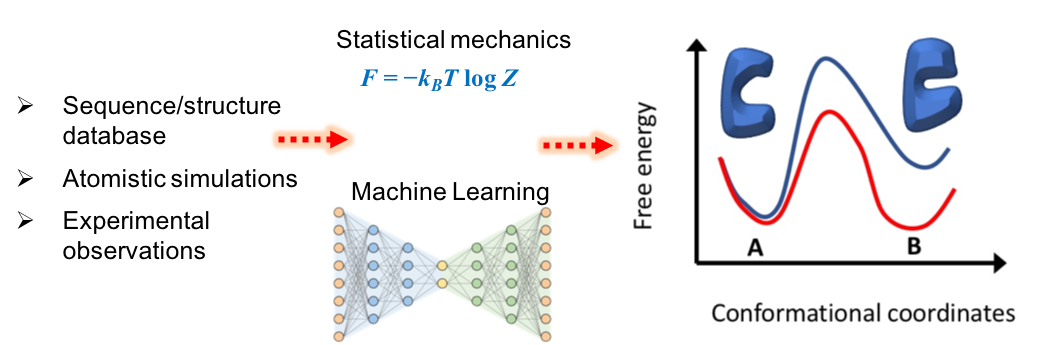
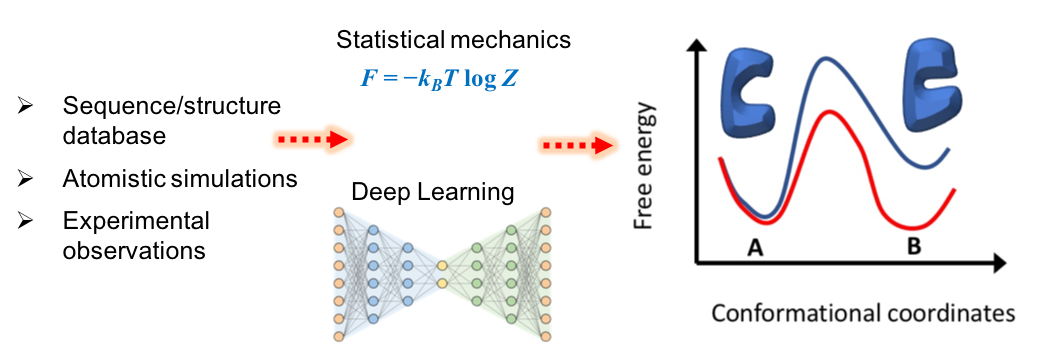
test0

Changed region(s): [[0.3368, 0.5217, 0.5512, 0.6087]]

diff --git a/content/research/_index.md b/content/research/_index.md
@@ -59,13 +59,13 @@ sections:
 
 <div style="margin-bottom: 80px;"></div>
 
-<h3 style="margin-bottom: 0px;">Applying machine learning/AI and statistical physics to reveal protein conformations and functions</h3>
+<h3 style="margin-bottom: 0px;">Applying deep learning and statistical physics to reveal protein conformations and functions</h3>
 <div style="display: flex; align-items: center;">
     <div style="margin-top: 0px;">
         {{< figure src="sm_ai_pmf.png" width="5000px" height="auto" caption="" numbered="false" >}}
     </div>
     <div style="margin-left: 20px;">
-        <p style="margin-top: 0px; text-align: justify;"> Remarkable advances in life science now permit in-silico exploration of a vast range of length scales from single-protein systems to cell-scale organization. We are interested to apply statistical physics and machine learning/AI to extend the timescales that conventional methods can simulate. Previously, we employed rare-event sampling techniques to search for the most probable transition pathways for molecular motor actions (<a href="https://pubs.acs.org/doi/abs/10.1021/ja512605w">JACS 2015</a>, <a href="https://elifesciences.org/articles/34186">eLife 2018</a>).
+        <p style="margin-top: 0px; text-align: justify;"> Remarkable advances in life science now permit in-silico exploration of a vast range of length scales from single-protein systems to cell-scale organization. We are interested to apply statistical physics and deep learning to extend the timescales that conventional methods can simulate. Previously, we employed rare-event sampling techniques to search for the most probable transition pathways for molecular motor actions (<a href="https://pubs.acs.org/doi/abs/10.1021/ja512605w">JACS 2015</a>, <a href="https://elifesciences.org/articles/34186">eLife 2018</a>).
         </p>
     </div>
 </div>
